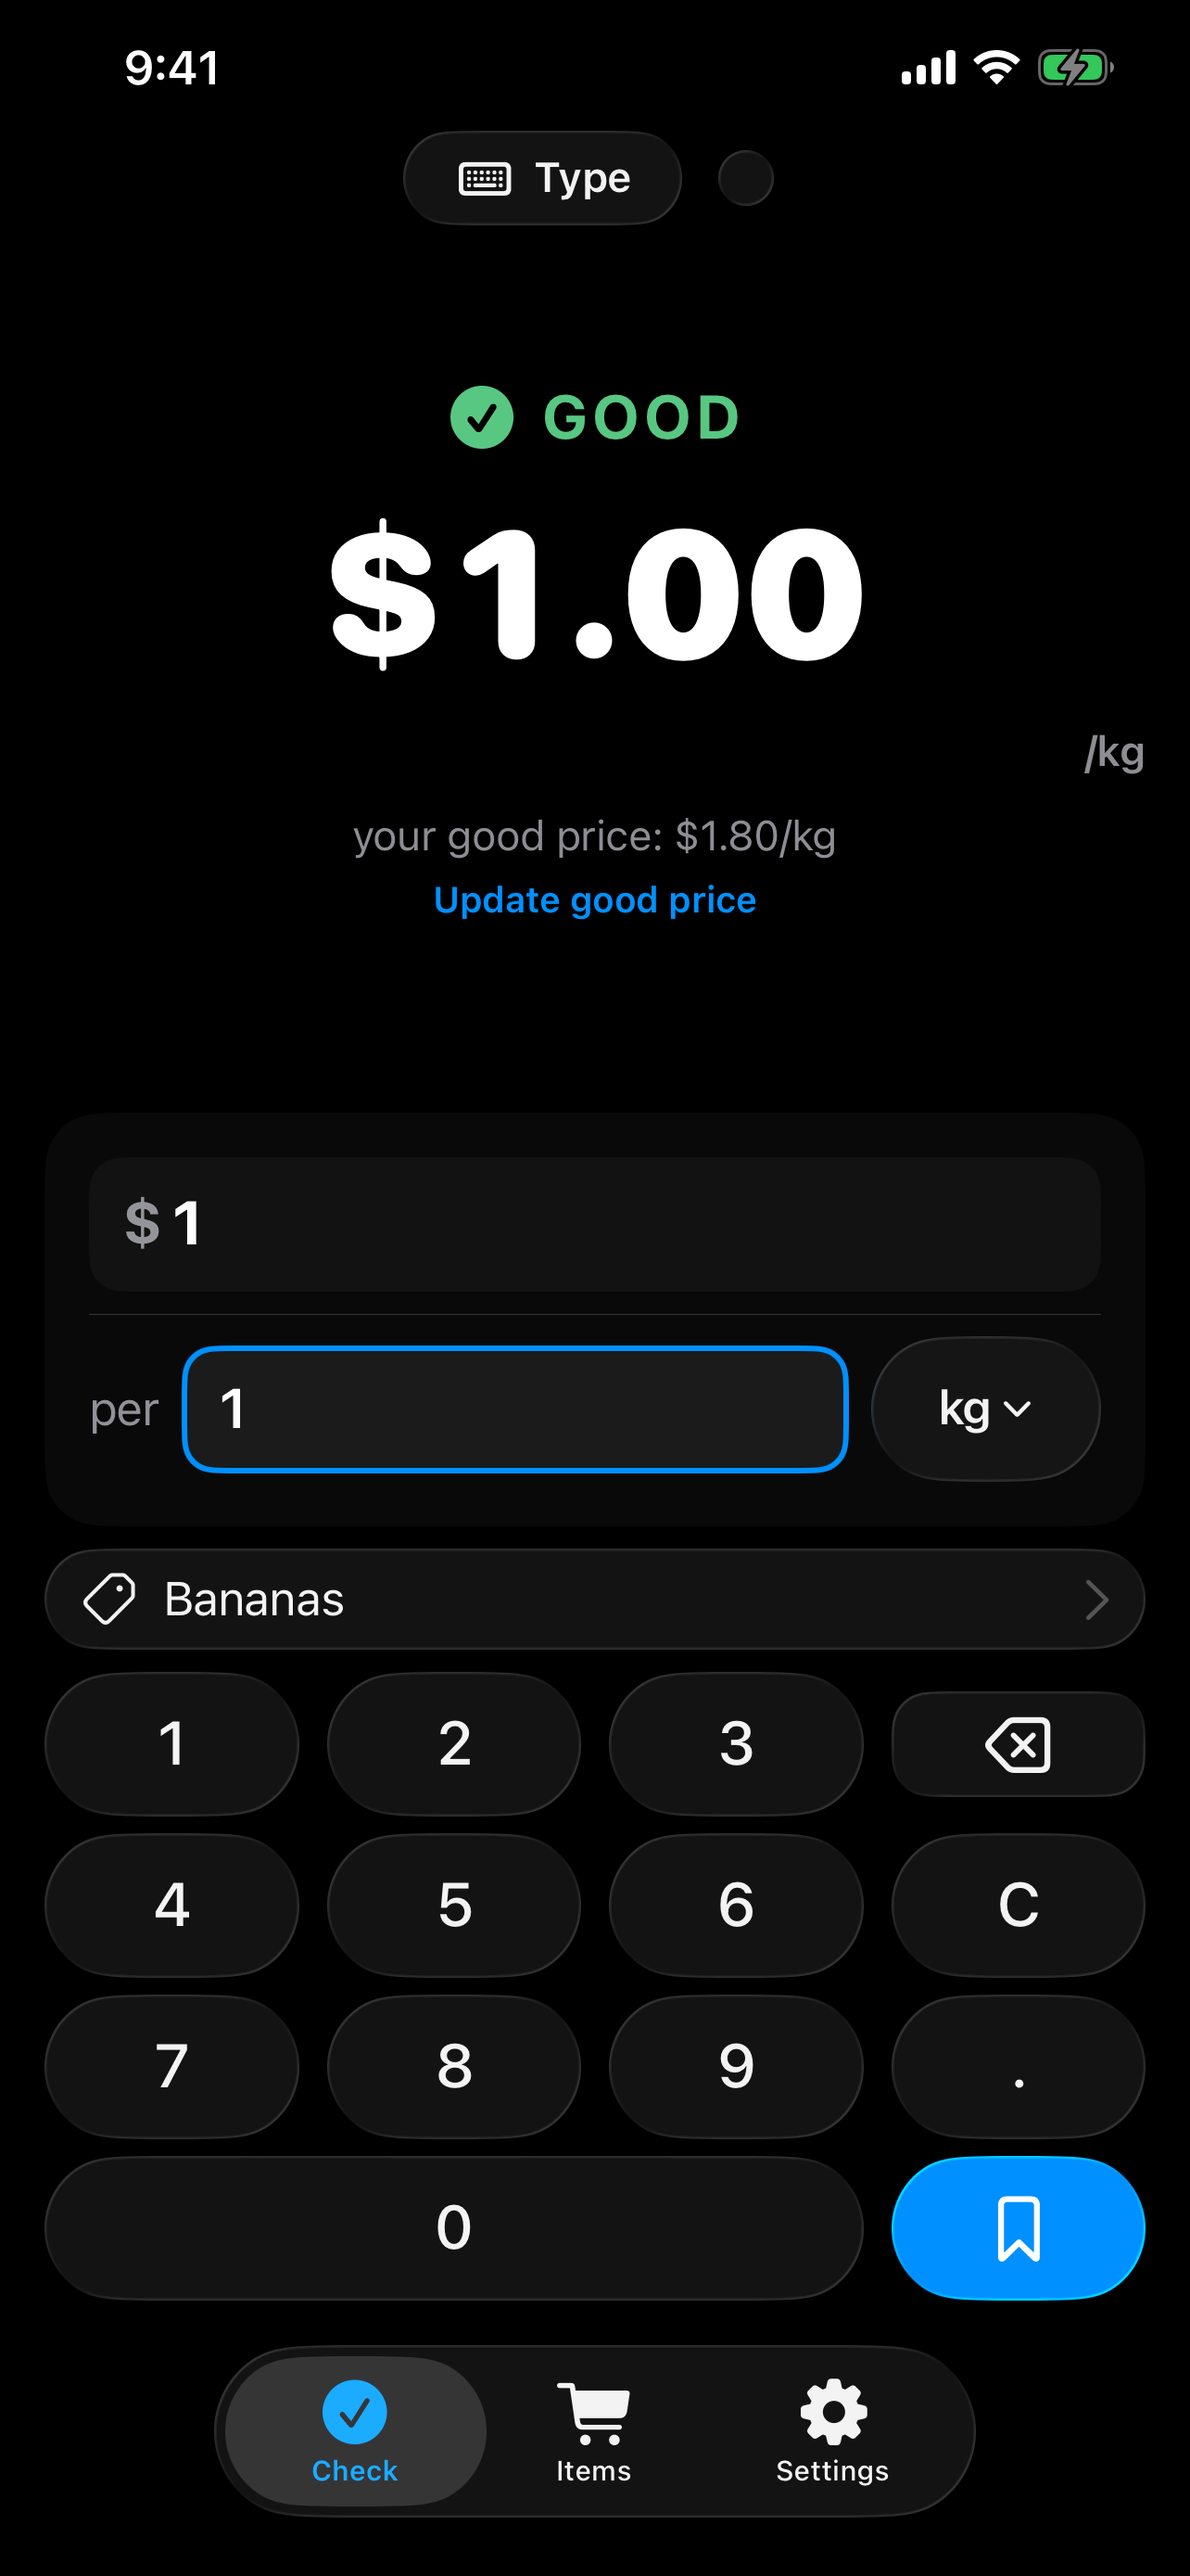
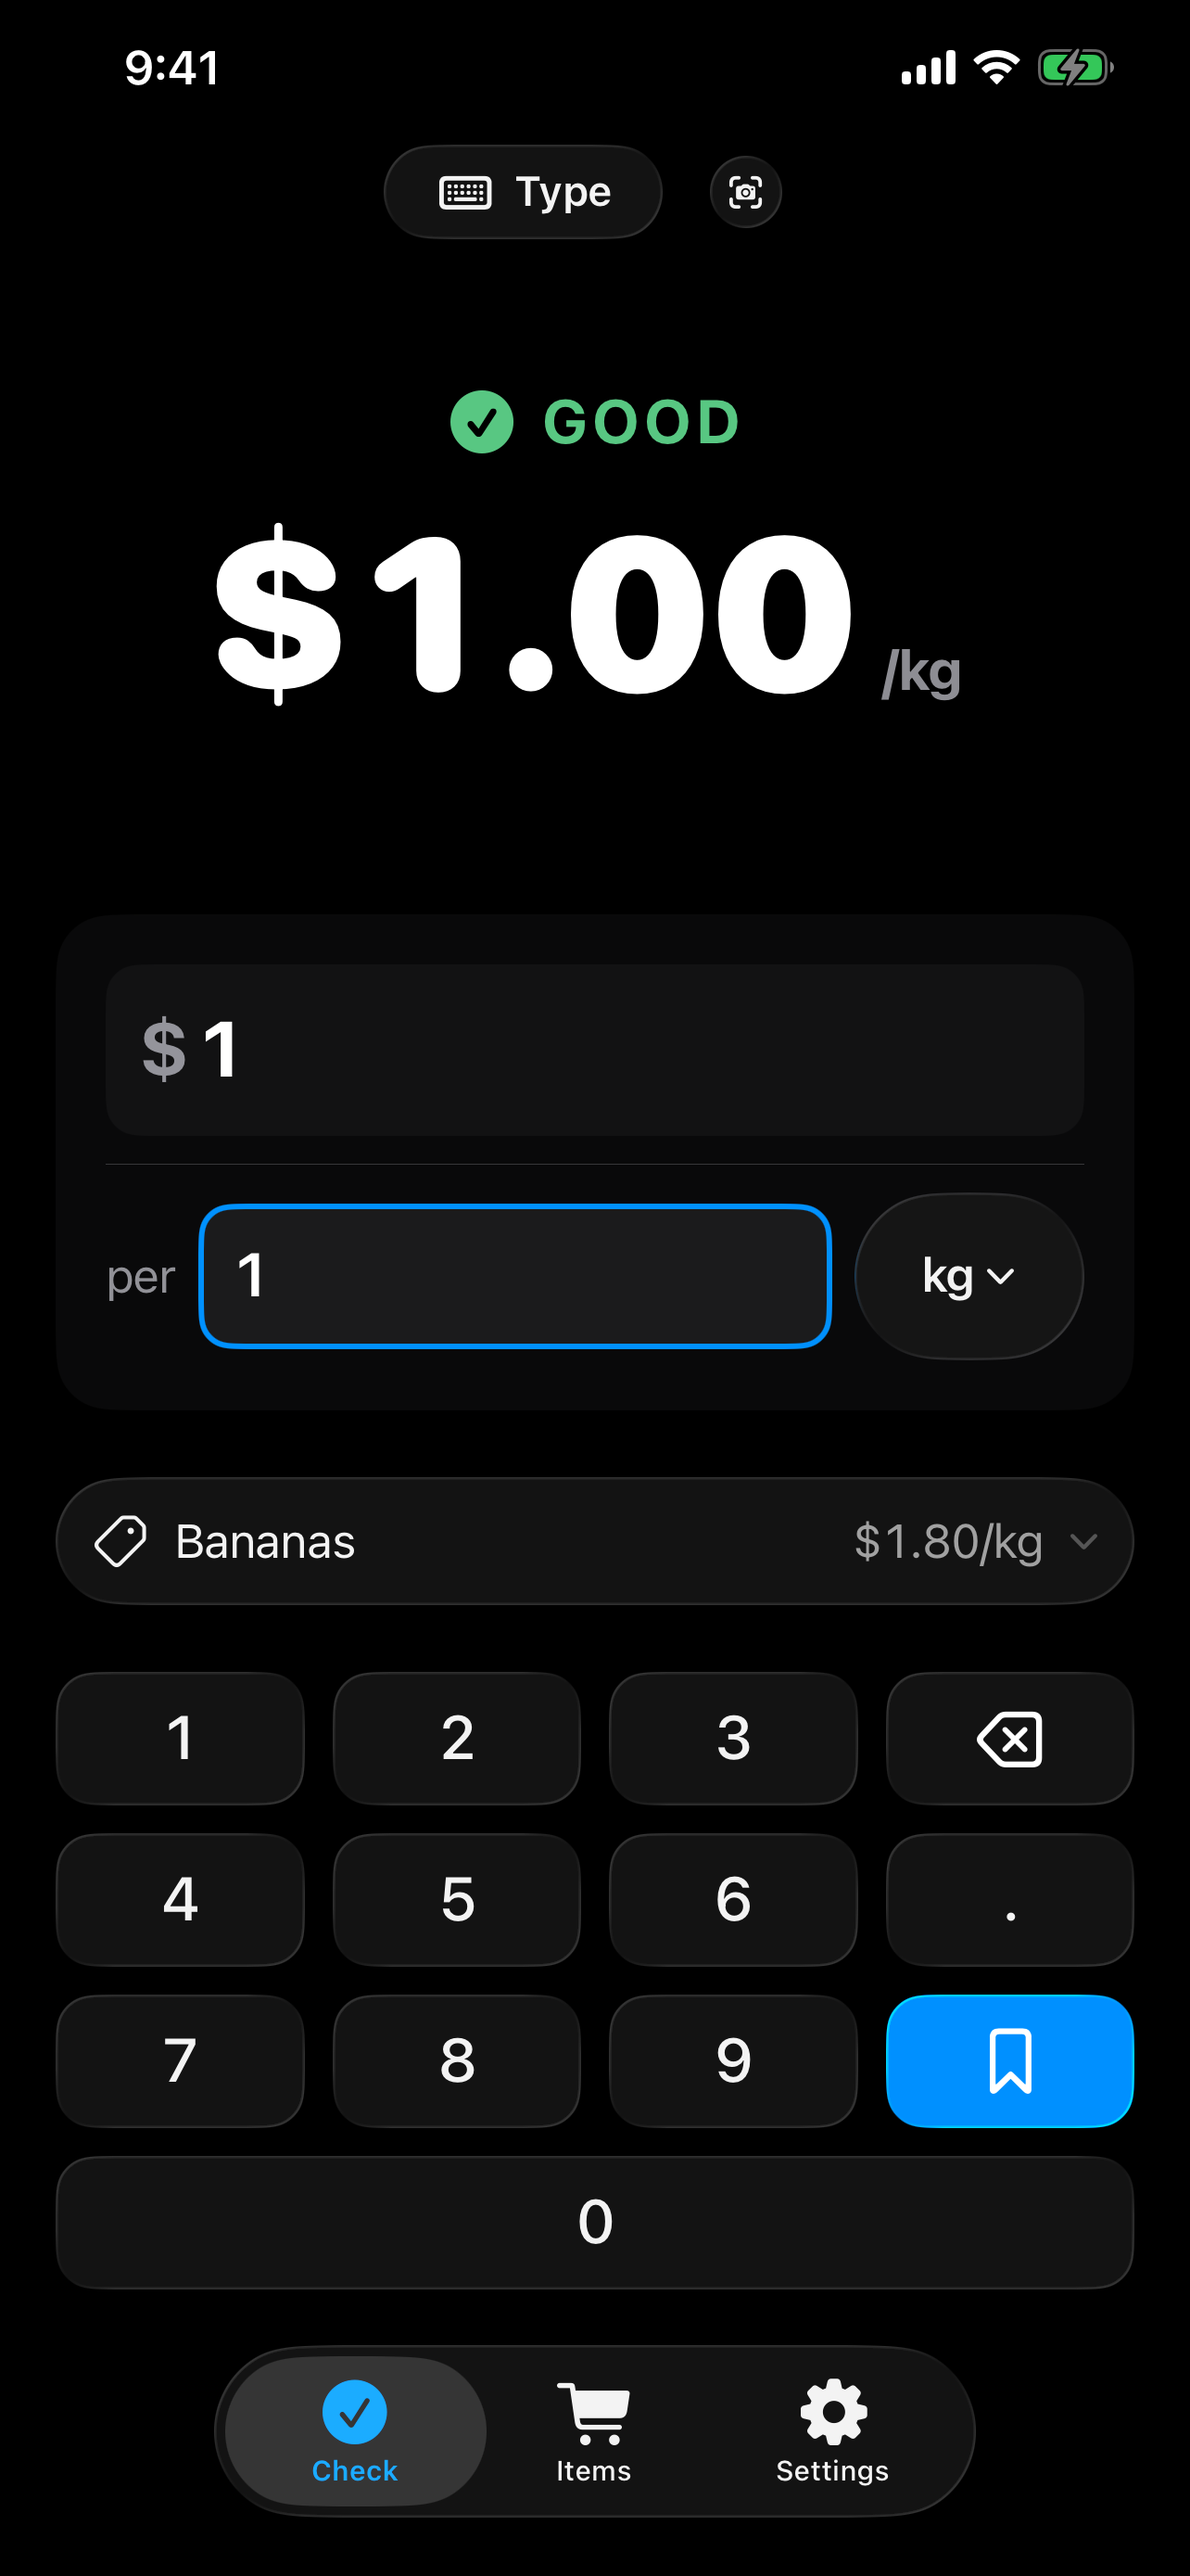
docs: regenerate App Store screenshots for the reworked Check screen
The shipped PNGs still showed the layout that was rejected.

- recapture both slots at 1206x2622 and 1284x2778
- restore the UI test target's skipped flag, committed flipped by mistake
- note that neither capture device ships as a simulator any more

Claude-Session: https://claude.ai/code/session_011i2zgfMc9AzHdXCfRgoWZG

diff --git a/AppStore/README.md b/AppStore/README.md
@@ -21,8 +21,6 @@ Both sets show the same four states, in upload order:
 one being checked. It is not in either uploaded set; it exists so the comparison chip is verifiable
 without driving the app by hand, and is a candidate if a fifth slot is ever wanted.
 
-> **The committed PNGs predate the short-screen rework** (the merged item row, the hero's inline
-> unit, the reworked mode toggle). They must be regenerated before the next submission.
 
 ## Regenerating
 
@@ -39,7 +37,10 @@ xcodebuild test -scheme pergram -destination 'id=<id>' \
 xcrun xcresulttool export attachments --path build/shots.xcresult --output-path <dir>
 ```
 
-Device types: `iPhone-16-Pro` for 6.3", `iPhone-13-Pro-Max` for 6.5".
+Device types: `iPhone-16-Pro` for 6.3", `iPhone-13-Pro-Max` for 6.5". Neither ships as a
+ready-made simulator any more — create them against the current runtime with `simctl create`
+first. Restore the scheme's `skipped` flag from git rather than from a copy afterwards; a
+backup taken mid-session can capture the already-flipped value.
 
 ## Scan
 
